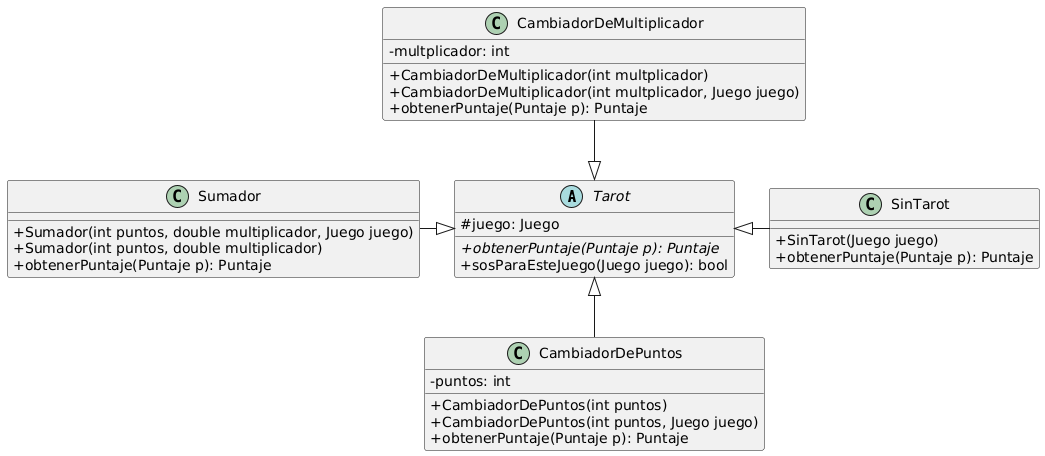
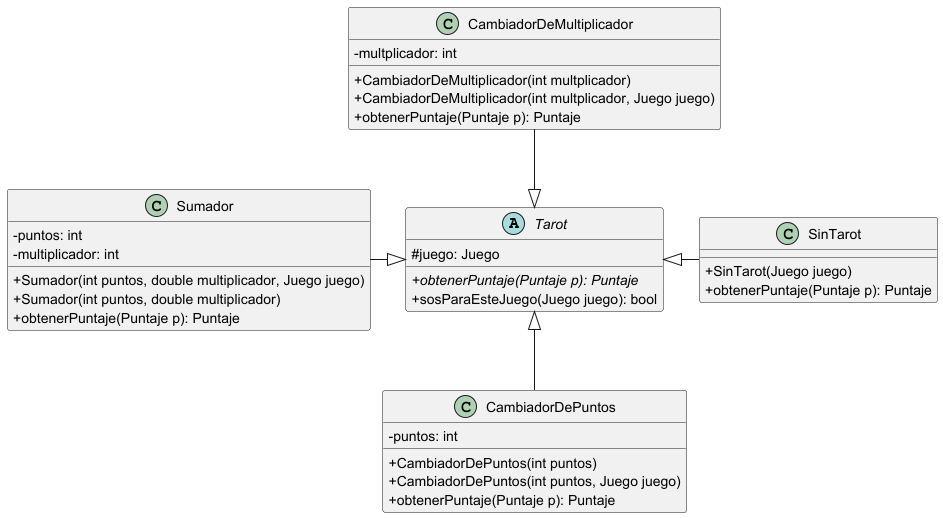
Arreglamos diagramas de clase
Modificamos detalles de los diagramas de clase

diff --git a/src/main/java/edu/fiuba/algo3/modelo/aleatorio/Aleatorio.java b/src/main/java/edu/fiuba/algo3/modelo/aleatorio/Aleatorio.java
@@ -1,14 +1,14 @@
 package edu.fiuba.algo3.modelo.aleatorio;
 
 public class Aleatorio {
-    private int numero;
+    private int probabilidad;
     public Aleatorio(int probabilidad) {
         if (probabilidad <= 0) {
             throw new ProbabilidadInvalidaException();
         }
-        this.numero = probabilidad;
+        this.probabilidad = probabilidad;
     }
     public boolean sucede() {
-        return (((int) (Math.random() * numero) == 0));
+        return (((int) (Math.random() * probabilidad) == 0));
     }
 }

diff --git a/src/main/test/edu/fiuba/algo3/entrega_2/casosDeUsoEntrega2Test.java b/src/main/test/edu/fiuba/algo3/entrega_2/casosDeUsoEntrega2Test.java
@@ -231,7 +231,7 @@ public class casosDeUsoEntrega2Test {
         for (int i = 0; i < cartas.size(); i++) {
             Carta carta1 = cartas.get(i);
             Carta carta2 = cartasQueDeberianEstar.get(i);
-            if (!carta1.esDelMismoNumero(carta2) || !carta1.esDelMismoPalo(carta2)) {
+            if (carta1.obtenerNumero() != carta2.obtenerNumero() || !carta1.esDelMismoPalo(carta2)) {
                 resultadoComparacion = false;
             }
         }

diff --git a/src/main/java/edu/fiuba/algo3/modelo/ronda/Ronda.java b/src/main/java/edu/fiuba/algo3/modelo/ronda/Ronda.java
@@ -29,11 +29,11 @@ public class Ronda {
         this.mano.agregarCartas(this.mazo.repartirCartas(8));
     }
 
-    public boolean pasoLaRonda(){
+    private boolean pasoLaRonda(){
         return (puntajeASuperar.esMenorAPuntajes(puntajesObtenidos));
     }
 
-    public boolean puedeSeguirJugando(){
+    private boolean puedeSeguirJugando(){
         return (!pasoLaRonda() && manos > 0);
     }
 

diff --git a/src/main/java/edu/fiuba/algo3/modelo/naipes/carta/Carta.java b/src/main/java/edu/fiuba/algo3/modelo/naipes/carta/Carta.java
@@ -40,10 +40,6 @@ public class Carta {
         return this.palo.esDeEstePalo(carta.obtenerPalo());
     }
 
-    public boolean esDelMismoNumero(Carta carta) {
-        return this.numero == carta.obtenerNumero();
-    }
-
     public int obtenerNumero() {
         return this.numero;
     }
